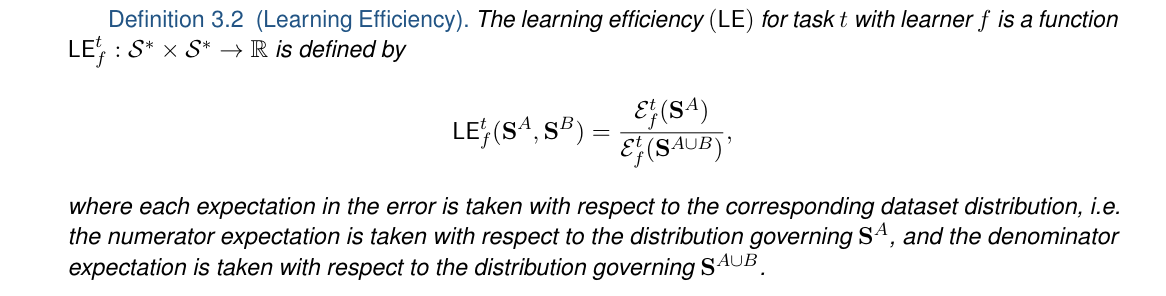
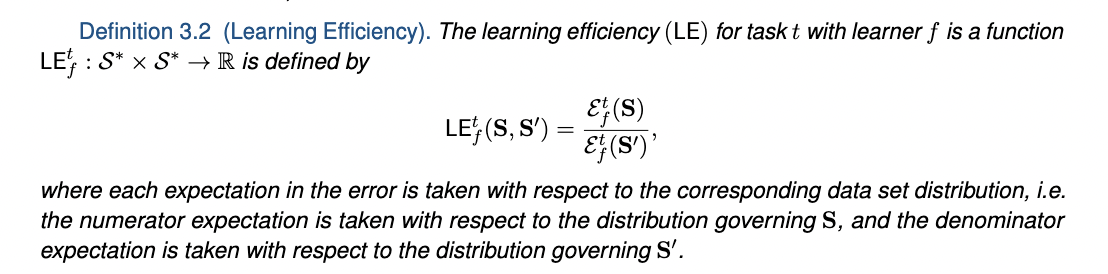
updated theory section

Changed region(s): [[0.0307, 0.6423, 0.9819, 0.9635], [0.0307, 0.0292, 0.9819, 0.2628], [0.3682, 0.3212, 0.6444, 0.5839]]

diff --git a/DARPA_L2M_PI_2022.html b/DARPA_L2M_PI_2022.html
@@ -85,10 +85,10 @@ Key is measuring improvement in performance rather than raw accuracy
 ### What is forward learning?
 
 
-- Let $n\_t$ be the last occurence of task $t$ in $\mathbf{D}\_n$
-- Let $\mathbf{D}\_n^{&lt; t} = \lbrace S\_1, S\_2, \ldots, S\_{n_t}  \rbrace$
+- Let $n\_t$ be the last occurence of task $t$ in $\mathbf{S}\_n$
+- Let $\mathbf{S}\_n^{&lt; t} = \lbrace S\_1, S\_2, \ldots, S\_{n_t}  \rbrace$
 - .ye[Forward] learning efficiency is the improvement on task $t$ resulting from all data .ye[preceding] task $t$
-$$    FLE^s\_{\mathbf{n}}(f) := \frac{\mathcal{E}_f^s(\mathbf{D}^{t}\_n)}{\mathcal{E}_f^s(\mathbf{D}^{&lt; t}\_n)}  $$
+$$    FLE^t\_{\mathbf{n}}(f) := LE_f^t(\mathbf{S}_n^t, \mathbf{S}_n^{&lt; t}) = \frac{\mathcal{E}_f^t(\mathbf{S}^{t}\_n)}{\mathcal{E}_f^t(\mathbf{S}^{&lt; t}\_n)}  $$
 
 
 <br>
@@ -104,7 +104,7 @@ $f$ .ye[forward learns] if $FLE_{\mathbf{n}}(f) &gt; 1$.
 .ye[Backward] learning efficiency  is the improvement on task $t$ resulting from all data .ye[after] task $t$
 
 
-$$    BLE^s\_{\mathbf{n}}(f) :=  \frac{\mathcal{E}_f^s(\mathbf{D}^{&lt; t}\_n)}{\mathcal{E}_f^s(\mathbf{D}\_n)}  $$
+$$    BLE^t\_{\mathbf{n}}(f) :=  LE_f^t(\mathbf{S}_n^{&lt; t}, \mathbf{S}_n) = \frac{\mathcal{E}_f^t(\mathbf{S}^{&lt; t}\_n)}{\mathcal{E}_f^t(\mathbf{S}\_n)}  $$
 
 
 
@@ -117,10 +117,10 @@ $f$ .ye[backward learns] if $BLE_{\mathbf{n}}(f) > 1$.
 ### Learning efficiency factorizes
 
 
-$$LE^s\_{\mathbf{n}}(f) := FLE^s\_{\mathbf{n}}(f)  \times BLE^s\_{\mathbf{n}}(f) $$
+$$LE^t\_{\mathbf{n}}(f) := FLE^t\_{\mathbf{n}}(f)  \times BLE^t\_{\mathbf{n}}(f) $$
 
-$$ \frac{\mathcal{E}_f^s(\mathbf{D}^{t}\_n)}{\mathcal{E}_f^s(\mathbf{D}\_n)} = \frac{\mathcal{E}_f^s(\mathbf{D}^{t}\_n)}{\mathcal{E}_f^s(\mathbf{D}^{&lt; t}\_n)} \times
-\frac{\mathcal{E}_f^s(\mathbf{D}^{&lt; t}\_n)}{\mathcal{E}_f^s(\mathbf{D}\_n)}  $$
+$$ \frac{\mathcal{E}_f^t(\mathbf{S}^{t}\_n)}{\mathcal{E}_f^t(\mathbf{S}\_n)} = \frac{\mathcal{E}_f^t(\mathbf{S}^{t}\_n)}{\mathcal{E}_f^t(\mathbf{S}^{&lt; t}\_n)} \times
+\frac{\mathcal{E}_f^t(\mathbf{S}^{&lt; t}\_n)}{\mathcal{E}_f^t(\mathbf{S}\_n)}  $$
 
 <br>
 ---
